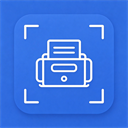
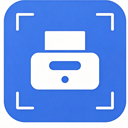
style: 图标改为实心色块打印机
- 保留你裁剪后的紧边构图：蓝色 #2F6FEB 圆角方块铺满画布，四角白色 L 形选区角标不变。
- 中间的打印机由白色细线描边改为实心色块：实心白色纸张从机身顶部伸出、机身实心白色圆角矩形、中部一条蓝色圆角凹槽、下方一个蓝色圆点，无任何描边。
- 由 1536px 母图（纯白底、无外投影）检测方块边界后居中裁切，等比高质量缩放导出 16/32/48/128 四个尺寸。

diff --git a/options/options.css b/options/options.css
@@ -41,7 +41,7 @@ body {
 }
 
 .logo {
-  border-radius: 8px;
+  border-radius: 0;
   flex: none;
 }
 
